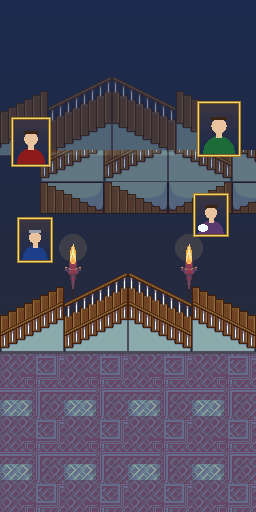
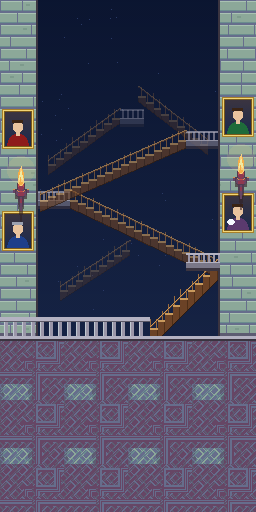
Day 3: the stairwell is drawn as a real stairwell
The scene was built from LPC stair tiles that did not fit together, so
the flights broke off and sat in shifted blocks. It is now drawn: a
deep shaft with flights of stairs at three depths (stepped treads,
stringer, banister) between landings, stone walls with the portraits
and torches, and the landing in front with its balustrade and a flight
going up.

diff --git a/scripts/maps/scenes.ts b/scripts/maps/scenes.ts
@@ -114,6 +114,47 @@ function portrait(p: Picture, x: number, y: number, w: number, h: number, coat: 
   });
 }
 
+/**
+ * A flight of stairs seen from the side: stepped treads on top, a straight stringer
+ * underneath, a banister with posts. It climbs from (xLow, yLow) to (xHigh, yHigh);
+ * `alpha` fades flights further back into the shaft.
+ */
+function flight(p: Picture, xLow: number, yLow: number, xHigh: number, yHigh: number, thick: number, alpha = 1): void {
+  const x0 = Math.min(xLow, xHigh);
+  const x1 = Math.max(xLow, xHigh);
+  const run = x1 - x0;
+  const climb = yLow - yHigh;
+  const steps = Math.max(3, Math.round(run / 8));
+  const stepW = run / steps;
+  const rise = climb / steps;
+  const up = xHigh > xLow; // climbs to the right
+  const along = (x: number) => (up ? x - x0 : x1 - x); // distance from the low end
+  for (let x = Math.floor(x0); x < x1; x++) {
+    const d = along(x + 0.5);
+    const k = Math.min(steps - 1, Math.floor(d / stepW));
+    const top = yLow - (k + 1) * rise;
+    const under = yLow - (d / run) * climb + thick; // the stringer's straight underside
+    const edge = Math.abs(d - (k + 1) * stepW) < 1; // the riser at the front of each step
+    p.rect(x, top, 1, 2, '#c99a5c', alpha); // tread
+    p.rect(x, top + 2, 1, Math.max(0, under - top - 2), edge ? '#4e2f18' : '#6b4226', alpha); // body
+    p.rect(x, under, 1, 1, '#2b1a10', alpha);
+    if (Math.floor(d) % 6 === 0) p.rect(x, top - 9, 1, 9, '#9a6a3c', alpha); // banister posts
+  }
+  // the handrail follows the slope
+  const yAt = (x: number) => yLow - (along(x) / run) * climb - 10;
+  p.line(x0, yAt(x0), x1, yAt(x1), '#c99a5c', alpha);
+  p.line(x0, yAt(x0) + 1, x1, yAt(x1) + 1, '#6b4226', alpha);
+}
+
+/** A stone landing jutting from a wall, with a short balustrade. */
+function landing(p: Picture, x: number, y: number, w: number, alpha = 1): void {
+  p.rect(x, y, w, 6, '#7a7788', alpha);
+  p.rect(x, y, w, 1, '#b4b2c2', alpha);
+  p.rect(x, y + 6, w, 3, '#3a3440', alpha);
+  for (let i = 2; i < w; i += 5) p.rect(x + i, y - 8, 2, 8, '#9a96a8', alpha);
+  p.rect(x, y - 9, w, 2, '#b4b2c2', alpha);
+}
+
 /** Torch with flame and warm glow. */
 function torch(p: Picture, x: number, y: number): void {
   p.ellipse(x + 3, y - 2, 14, 14, '#ffd27a', 0.12);
@@ -281,21 +322,45 @@ export const SCENES: Record<string, (p: Picture) => void> = {
   },
 
   staircases: (p) => {
-    // the tall stairwell: dark depth with moving staircases and portraits
-    p.gradient(0, 512, '#1b2a4e', '#2b2a33');
-    p.tile('stairs', 0, 0, -16, 60, 8, 3, { alpha: 0.45 });
-    p.tile('stairs', 0, 5, 40, 150, 8, 2, { alpha: 0.6 });
-    portrait(p, 14, 120, 34, 44, '#8e1b1b', 1);
-    portrait(p, 200, 104, 38, 50, '#1e6b3a', 2);
-    portrait(p, 196, 196, 30, 38, '#5a3a6e', 3, () => p.ellipse(203, 228, 5, 4, '#f4f8ff')); // the lady with the poodle
-    portrait(p, 20, 220, 30, 40, '#1d3f8a', 4);
-    torch(p, 70, 250);
-    torch(p, 186, 250);
-    // the landing and the staircase in front
-    p.tile('stairs', 0, 3, 0, 256, 8, 3);
-    stoneFloor(p, 352);
-    p.rect(0, 352, 256, 2, '#4a4856');
+    // the great stairwell: a deep shaft, flights of stairs at three depths, stone walls left and right
+    p.gradient(0, 512, '#0b1530', '#1b2a4e');
+    const rnd = random(301);
+    for (let i = 0; i < 40; i++) p.dot(40 + rnd() * 176, rnd() * 320, hex('#2a3a66')); // dust in the dark
+    // far back: small, faded flights crossing the shaft
+    flight(p, 48, 170, 120, 118, 5, 0.3);
+    flight(p, 208, 150, 138, 96, 5, 0.3);
+    flight(p, 60, 296, 130, 250, 5, 0.3);
+    landing(p, 120, 118, 24, 0.3);
+    // middle: bigger flights between landings on the walls
+    landing(p, 36, 200, 34, 0.65);
+    flight(p, 214, 268, 70, 200, 8, 0.65);
+    landing(p, 186, 140, 34, 0.65);
+    flight(p, 40, 140 + 64, 186, 140, 8, 0.65);
+    // the side walls with portraits and torches
+    p.withClip(0, 0, 36, FLOOR, () => stoneWall(p, 0, FLOOR));
+    p.withClip(220, 0, 36, FLOOR, () => stoneWall(p, 0, FLOOR));
+    p.rect(36, 0, 2, FLOOR, '#3a3440');
+    p.rect(218, 0, 2, FLOOR, '#3a3440');
+    portrait(p, 5, 112, 26, 34, '#8e1b1b', 1);
+    portrait(p, 5, 214, 26, 34, '#1d3f8a', 4);
+    portrait(p, 225, 100, 26, 34, '#1e6b3a', 2);
+    portrait(p, 225, 196, 26, 34, '#5a3a6e', 3, () => p.ellipse(231, 222, 4, 3, '#f4f8ff')); // the lady with the poodle
+    torch(p, 18, 172);
+    torch(p, 238, 160);
+    // in front: the landing we stand on, its balustrade, and a flight going up on the right
+    flight(p, 150, 336, 218, 268, 12);
+    landing(p, 186, 262, 34);
+    stoneFloor(p, FLOOR);
+    p.rect(0, FLOOR, 256, 3, '#b4b2c2');
+    p.rect(0, FLOOR + 3, 256, 2, '#3a3440');
+    for (let x = 4; x < 146; x += 9) {
+      p.rect(x, FLOOR - 16, 4, 16, '#9a96a8'); // balusters
+      p.rect(x, FLOOR - 16, 1, 16, '#c0c8d0');
+    }
+    p.rect(0, FLOOR - 19, 150, 4, '#b4b2c2'); // the rail
+    p.rect(0, FLOOR - 15, 150, 1, '#5a5866');
   },
+
 
   library: (p) => {
     p.gradient(0, 120, '#3b2414', '#5a3a20');
